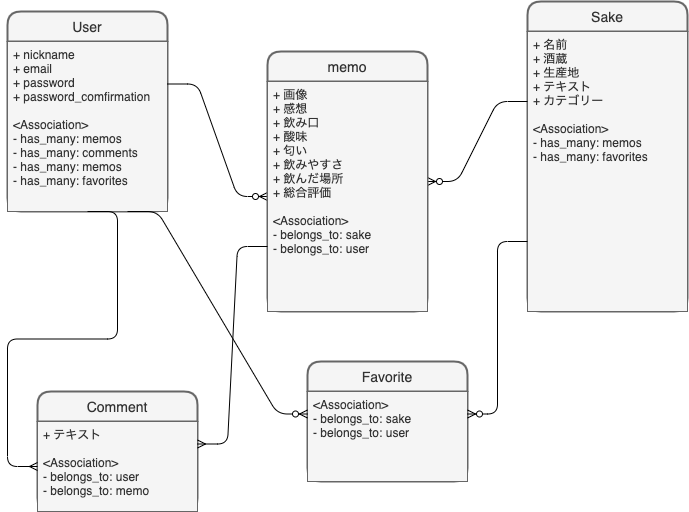
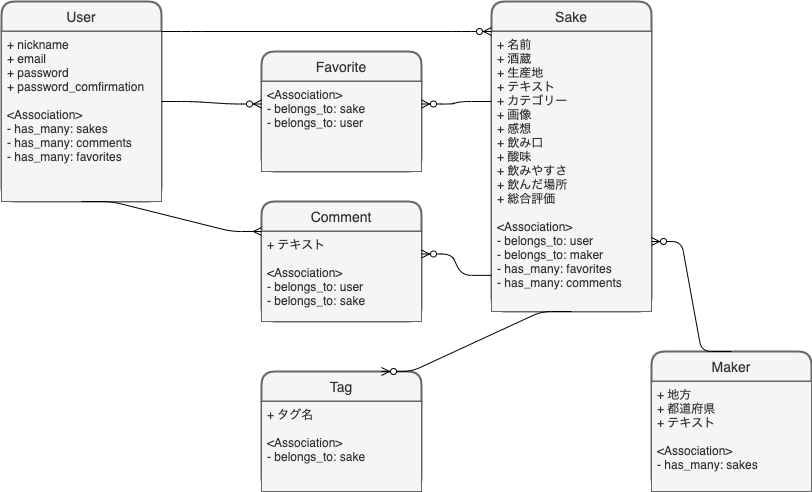
README更新

diff --git a/README.md b/README.md
@@ -14,22 +14,122 @@
   このアプリは、私や同じような人が日本酒の味を記憶していないという問題を解決するために開発されました。日本酒が好きで飲むのですが、飲んだという記憶はあれどどんな味だったか、何と合わせたら美味しかったか全くと言っていいほど覚えていません。酔った時の記憶とは当てにならないものです。そこで、味をメモする場所を提供しようとこのアプリを開発しました。
 
 ## 洗い出した用件
-  ユーザー  機能 | 登録/編集/削除
-  酒       機能 | 登録/編集/削除
-  メモ     機能 | 登録/削除
-  コメント  機能 | 登録/削除
-  お気に入り機能 | 登録/削除
-  検索機能
-  タグ付け機能
-  ソート機能
-  メモ完成チェック
-  マイページ
-  ページネーション
 
+  ### <ユーザー>
+    登録
+      - アイコン画像
+      - 画像プレビュー
+    編集
+      - アイコン画像
+      - 画像プレビュー
+    削除(退会)
+    ログイン・ログアウト
+    マイページ
+      - 自分の投稿の表示
+      - メモ完成チェック
+      - お気に入りリストの表示
+  ### <酒>
+    一覧表示
+      - ページネーション
+      - キーワード検索
+      - 絞り込み検索
+      - 昇順降順表示
+      - お気に入り登録/ 削除
+      - お気に入り数ランキング
+      - ユーザー投稿数ランキング
+    詳細表示
+      - 酒情報の表示
+      - コメント投稿/表示/削除
+    新規投稿
+      - 画像投稿
+      - 画像プレビュー
+      - セレクトボックス
+    編集
+      - 画像投稿
+      - 画像プレビュー
+      - セレクトボックス
+    削除
+  ### <コメント>
+    投稿
+    削除
+    非同期通信
+  ### <お気に入り>
+    投稿
+    削除
+    非同期通信
+  ### <タグ>
+    作成
+    削除
+    絞り込み検索
+    非同期通信
+  ### <酒蔵>
+    新規登録
+    削除
+    
 ## 実装した機能についてのGIFと説明
+  ### <ユーザー>
+    登録
+      - アイコン画像
+      - 画像プレビュー
+    編集
+      - アイコン画像
+      - 画像プレビュー
+    ログイン・ログアウト
+    マイページ
+      - 自分の投稿の表示
+      - メモ完成チェック
+      - お気に入りリストの表示
+  ### <酒>
+    一覧表示
+      - ページネーション
+      - キーワード検索
+      - 絞り込み検索
+      - 昇順降順表示
+      - お気に入り登録/ 削除
+      - お気に入り数ランキング
+      - ユーザー投稿数ランキング
+    詳細表示
+      - 酒情報の表示
+      - コメント投稿/表示/削除
+      - タグの作成/表示/削除
+    新規投稿
+      - 画像投稿
+      - 画像プレビュー
+      - セレクトボックス
+    編集
+      - 画像投稿
+      - 画像プレビュー
+      - セレクトボックス
+    削除
+  ### <コメント>
+    投稿
+    削除
+  ### <お気に入り>
+    投稿
+    削除
+    
 
 ## 実装予定の機能
+  ### <ユーザー>
+    削除(退会)
+  ### <酒>
+    詳細表示
+      - タグの作成/表示/削除
+  ### <コメント>
+    非同期通信
+  ### <お気に入り>
+    非同期通信
+  ### <タグ>
+    作成
+    削除
+    絞り込み検索
+    非同期通信
+  ### <酒蔵>
+    新規登録
+    削除
+    
 
 ## データベース設計
   ![image](sake-zukan.png)
+
 ## ローカルでの動作方法
